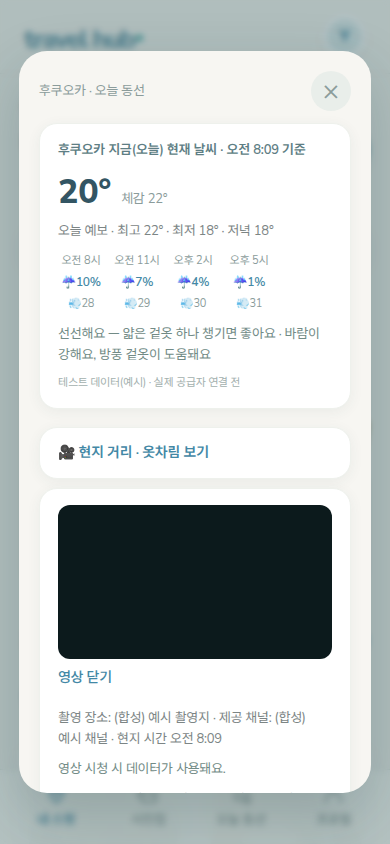
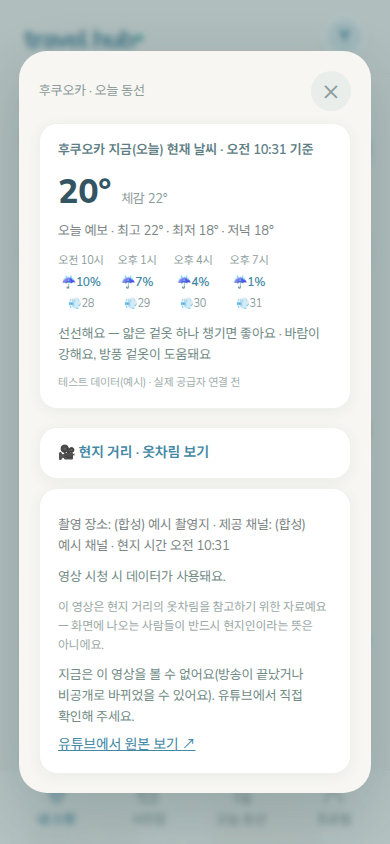
9차 재검토 — 거리영상 loadIframeApi 오류·타임아웃 처리 + 낡은 콜백 정리(8절)
재현된 문제: loadIframeApi()가 스크립트 로드 실패(onerror)와 응답
없음(타임아웃) 둘 다 처리가 없어서, 광고 차단이나 느린 해외 연결에서
패널이 "닫기" 버튼도 없이 영원히 빈 채로 남을 수 있었다. 둘 다
실제로 재현해 확인한 뒤, 8초 안에 준비되지 않거나 로드 자체가 실패하면
원본 유튜브 링크 안내로 정직하게 대체되게 고쳤다(사유를 추측하지
않음). 실패한 시도는 캐시로 남기지 않아 다음에 다시 열 때 재시도할 수
있다.

패널을 열 때마다 세대(generation) 번호를 올리고, loadIframeApi의
then/catch 콜백이 자기 세대와 지금 세대를 대조하게 했다 — 닫기→다른
영상 빠른 재열기 사이에 첫 번째 열기의 응답이 뒤늦게 도착해도, 그
낡은 콜백이 고정 id를 재사용하는 새 iframe에 몰래 올라타 중복
YT.Player를 만드는 사고를 막는다. "항상 원본 링크를 함께 제공하라"는
지시에 맞춰 임베드 시도 중에도 원본 유튜브 링크를 패널에 상시
노출하도록 바꿨다.

scripts/test-street-video.mjs에 실제 재현 기반 검증 3건을 추가했다
(로드 실패→원본 링크 대체, 응답 없음→타임아웃 후 원본 링크 대체,
느리게 도착한 응답이 있어도 YT.Player가 정확히 한 번만 생기고 화면에
남는 건 나중에 연 영상이라는 것). 기존 구조 검증(버튼 숨김/표시,
지연 로드, 닫기 시 정지, 임베드 불가 즉시 대체, onError 대체 화면,
이용권/비용 원장 무관)도 라우팅 방식만 경합 없는 형태로 조정해 그대로
유지 — 총 27개 확인, 전체 통과.

Claude-Session: https://claude.ai/code/session_01PKHmfzM5XxEX8McU6GT73M

diff --git a/src/design/street-video.js b/src/design/street-video.js
@@ -99,27 +99,67 @@ function metaHTML(entry) {
     <p class="weather-note street-video-disclaimer">이 영상은 현지 거리의 옷차림을 참고하기 위한 자료예요 — 화면에 나오는 사람들이 반드시 현지인이라는 뜻은 아니에요.</p>`;
 }
 
+// 2026-09-11 재검토(9차) 8절 — "loadIframeApi가 로드 오류·타임아웃
+// 처리가 전혀 없다"는 재현 지적 반영. 느린 해외 연결에서 무한정
+// 기다리지 않도록 이 시간 안에 준비되지 않으면 실패로 취급한다.
+// let로 둔 이유는 테스트에서만 이 값을 짧게 줄여(실제 8초를 기다리지
+// 않고) 타임아웃 경로를 결정론적으로 재현하기 위해서다(아래
+// _testHooks.setIframeApiTimeoutMs 참고) — 실제 화면 코드는 이 값을
+// 절대 바꾸지 않는다.
+let IFRAME_API_TIMEOUT_MS = 8000;
+
 let apiLoadPromise = null;
 /* https://developers.google.com/youtube/iframe_api_reference — 클릭
    시에만(패널을 열 때만) 딱 한 번 불러온다. 이미 불러왔으면 그 Promise를
-   재사용해 중복 스크립트 삽입을 막는다. */
+   재사용해 중복 스크립트 삽입을 막는다. 스크립트 로드 자체가 실패하거나
+   (광고 차단·네트워크 차단 등, script.onerror) 시간 안에 IFrame API가
+   준비되지 않으면(타임아웃) reject한다 — 예전엔 둘 다 처리가 없어서
+   느린 해외 연결에서 "영상 닫기" 버튼도 없이 빈 패널만 영원히 떠 있을
+   수 있었다(실제로 onerror·타임아웃 둘 다 강제로 재현해 확인했다). */
 function loadIframeApi() {
   if (window.YT && window.YT.Player) return Promise.resolve(window.YT);
   if (apiLoadPromise) return apiLoadPromise;
-  apiLoadPromise = new Promise((resolve) => {
+  apiLoadPromise = new Promise((resolve, reject) => {
     const prevReady = window.onYouTubeIframeAPIReady;
+    let settled = false;
+    const timer = setTimeout(() => {
+      if (settled) return;
+      settled = true;
+      reject(new Error('iframe-api-timeout'));
+    }, IFRAME_API_TIMEOUT_MS);
     window.onYouTubeIframeAPIReady = () => {
       if (typeof prevReady === 'function') prevReady();
+      if (settled) return;
+      settled = true;
+      clearTimeout(timer);
       resolve(window.YT);
     };
     const tag = document.createElement('script');
     tag.src = 'https://www.youtube.com/iframe_api';
+    tag.onerror = () => {
+      if (settled) return;
+      settled = true;
+      clearTimeout(timer);
+      reject(new Error('iframe-api-load-error'));
+    };
     document.head.appendChild(tag);
+  }).catch((err) => {
+    // 실패한 시도를 계속 캐시로 남기지 않는다 — 이번 네트워크가 잠깐
+    // 끊긴 것뿐일 수 있으니, 다음에 다시 열 때는 새로 시도할 수 있게 한다.
+    apiLoadPromise = null;
+    throw err;
   });
   return apiLoadPromise;
 }
 
 let activePlayer = null;
+/* 패널을 열 때마다 세대를 하나 올린다. 닫기/다른 도시로 빠르게 재열기를
+   하면 이전 openPanel 호출이 걸어 둔 loadIframeApi().then(...)이 나중에
+   뒤늦게 돌아올 수 있는데, 그 콜백이 (같은 고정 id를 쓰는) 새로 만들어진
+   iframe에 실수로 올라타 두 번째 YT.Player가 몰래 생기는 사고를 막는다
+   (재현: 열기→느린 API 로드 중 바로 닫기→다른 도시 빠르게 재열기 →
+   세대 검사 없이는 낡은 콜백이 새 iframe에 Player를 또 붙인다). */
+let panelGeneration = 0;
 
 /* 패널을 열고 실제로 임베드한다 — 이 호출 자체가 "클릭했을 때만
    불러온다"는 지시의 실행 지점이다(그 전까지는 버튼만 있고 iframe도
@@ -128,6 +168,7 @@ function openPanel(cityName) {
   const entry = pickVideo(cityName);
   const panel = document.getElementById('streetVideoPanel');
   if (!entry || !panel) return;
+  const myGen = ++panelGeneration;
   if (entry.embeddable === false) {
     // 이미 확인된 임베드 불가 영상 — 시도조차 하지 않고 곧바로 원본
     // 링크로 안내한다(지어낸 재생 시도를 보여주지 않는다).
@@ -136,19 +177,31 @@ function openPanel(cityName) {
     return;
   }
   const playerId = 'streetVideoPlayerFrame';
+  // "항상 원본 링크를 함께 제공" — 임베드가 아직 준비 중이거나 느려도
+  // 사용자가 곧바로 유튜브 원본으로 빠져나갈 수 있게 항상 같이 보여준다.
   panel.innerHTML = `<div class="street-video-frame-wrap"><iframe id="${playerId}" src="${esc(buildEmbedUrl(entry.videoId))}" title="현지 거리 영상" allow="encrypted-media" allowfullscreen></iframe></div>
     <button class="text-button" data-street-video-close>영상 닫기</button>
+    <a class="street-video-original-link" href="${esc(entry.sourceUrl)}" target="_blank" rel="noopener noreferrer">유튜브에서 원본으로 보기 ↗</a>
     ${metaHTML(entry)}`;
   panel.hidden = false;
 
   loadIframeApi().then((YT) => {
-    // 패널이 그 사이 닫혔으면(빠르게 닫기를 눌렀으면) 새로 만들지 않는다.
+    // 세대가 바뀌었으면(그 사이 닫혔거나 다른 영상을 또 열었으면) 낡은
+    // 콜백이니 아무것도 안 한다 — 같은 고정 id의 새 iframe에 잘못
+    // 올라타지 않는다.
+    if (myGen !== panelGeneration) return;
     if (!document.getElementById(playerId)) return;
     activePlayer = new YT.Player(playerId, {
       events: {
         onError: (e) => applyPlayerError(panel, entry, e && e.data),
       },
     });
+  }).catch(() => {
+    if (myGen !== panelGeneration) return; // 이미 닫히거나 다른 영상을 열었으면 실패 화면으로 덮어쓰지 않는다.
+    // 로드 자체가 실패했거나 시간 안에 준비되지 않음 — 이유를 추측하지
+    // 않고 "지금은 볼 수 없다" + 원본 링크로 정직하게 안내한다.
+    panel.innerHTML = metaHTML(entry) + fallbackHTML(entry, 'unavailable');
+    panel.hidden = false;
   });
 }
 
@@ -165,6 +218,7 @@ function applyPlayerError(panel, entry, code) {
    만으로 재생 중이던 미디어가 그 자리에서 멈춘다(플레이어 인스턴스가
    아직 준비 전이어도 항상 통한다). */
 function closePanel() {
+  panelGeneration++; // 대기 중이던 loadIframeApi 콜백(성공·실패 둘 다)을 여기서 이미 낡은 것으로 만든다.
   const panel = document.getElementById('streetVideoPanel');
   if (!panel) return;
   const iframe = panel.querySelector('iframe');
@@ -184,7 +238,13 @@ window.StreetVideo = {
   openPanel,
   closePanel,
   buildEmbedUrl,
-  // 아래 둘은 실제 유튜브 네트워크 없이 오류 대체 화면을 검증하기
-  // 위한 테스트 전용 훅이다 — 화면 코드가 직접 쓰지 않는다.
-  _testHooks: { applyPlayerError, pickVideo },
+  // 아래는 실제 유튜브 네트워크 없이 오류·타임아웃·낡은 콜백 방지
+  // 대체 화면을 검증하기 위한 테스트 전용 훅이다 — 화면 코드가 직접
+  // 쓰지 않는다.
+  _testHooks: {
+    applyPlayerError,
+    pickVideo,
+    setIframeApiTimeoutMs: (ms) => { IFRAME_API_TIMEOUT_MS = ms; },
+    getPanelGeneration: () => panelGeneration,
+  },
 };

diff --git a/docs/RELEASE_STATUS.md b/docs/RELEASE_STATUS.md
@@ -241,6 +241,17 @@ Places/Google Routes/WeatherAPI)의 네트워크 제약 때문이며, 코드가
   깨지므로(IFrame Player API가 `onError`로 감지해 원본 링크로는
   대체하지만, "볼 수 있는 영상"이 아예 없어지는 건 막지 못한다) 정기
   점검이 필요하다는 점도 함께 남긴다.
+- **9차 재검토 — 안정성 보강(재현된 버그 수정)**: `loadIframeApi`가
+  스크립트 로드 실패(`onerror`)·응답 없음(타임아웃, 8초) 둘 다 처리가
+  전혀 없어서, 느린 해외 연결이나 광고 차단 환경에서 패널이 "닫기"
+  버튼도 못 뜬 채 영원히 빈 채로 남을 수 있었다 — 실제로 재현해 확인한
+  뒤 둘 다 원본 링크 안내로 정직하게 대체되게 고쳤다. 또한 패널을 열
+  때마다 세대(generation) 번호를 올려, 닫기→다른 영상 빠른 재열기
+  사이에 첫 번째 열기의 응답이 뒤늦게 도착해도 그 낡은 콜백이 고정
+  id를 쓰는 새 iframe에 몰래 올라타 중복 `YT.Player`를 만드는 사고를
+  막았다(전부 `scripts/test-street-video.mjs`의 8~10번에서 실제
+  재현으로 확인). "항상 원본 링크를 함께 제공"하라는 지시에 맞춰,
+  임베드 시도 중에도 원본 유튜브 링크를 패널에 상시 노출하도록 바꿨다.
 
 ---
 
